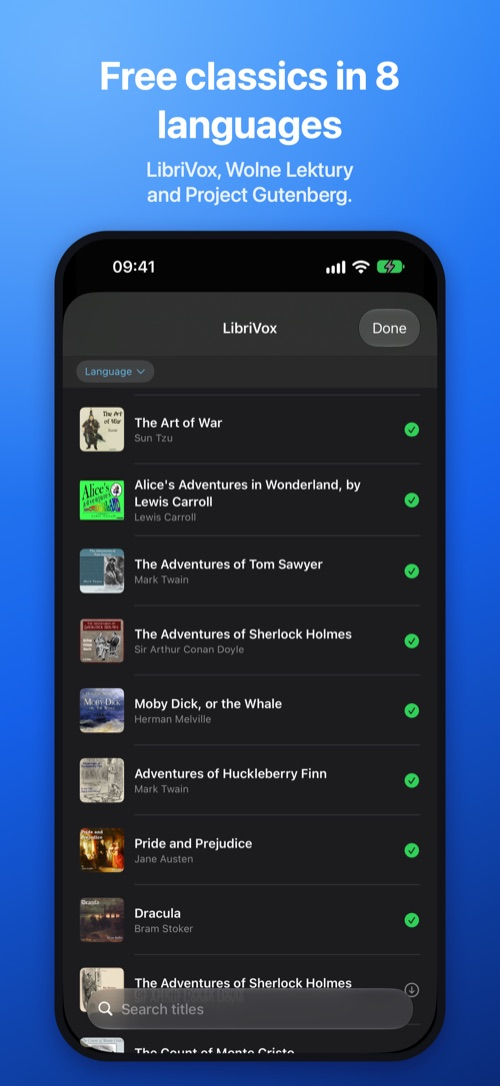
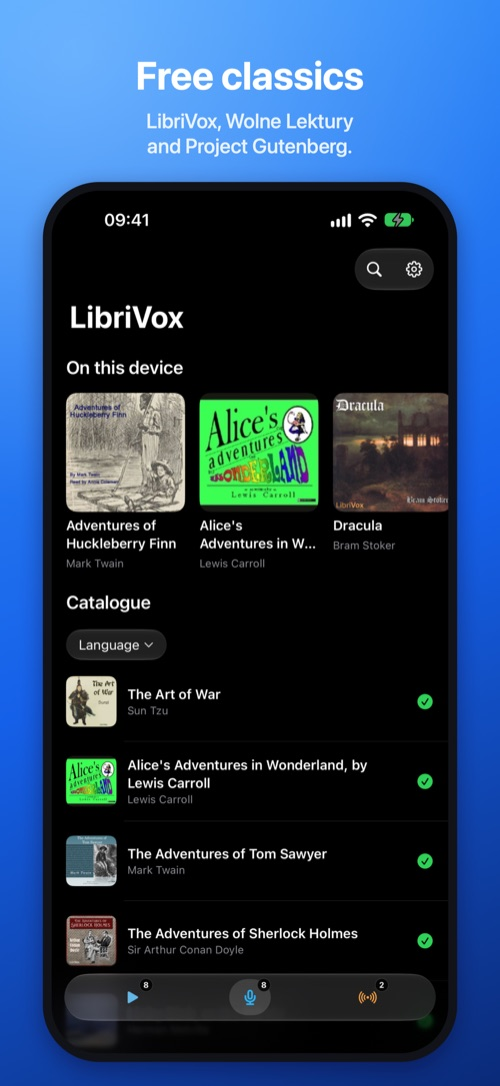
Website: version 3.0 — podcasts, sources as tabs, new screenshots, updated privacy and support

diff --git a/pl/index.html b/pl/index.html
@@ -4,12 +4,12 @@
 <meta charset="utf-8">
 <meta name="viewport" content="width=device-width,initial-scale=1">
 <title>Local Audio Books — Twoje audiobooki i darmowa klasyka w 8 językach</title>
-<meta name="description" content="Prywatny odtwarzacz audiobooków dla Twoich plików MP3 z darmowymi audiobookami z domeny publicznej z LibriVox, Wolnych Lektur i Projektu Gutenberg w ośmiu językach — oraz z dowolnych podcastów i kanałów RSS.">
+<meta name="description" content="Prywatny odtwarzacz Twoich audiobooków, darmowej klasyki z domeny publicznej z Wolnych Lektur, LibriVox i Projektu Gutenberg w ośmiu językach oraz podcastów, które grają od razu.">
 <link rel="canonical" href="https://localaudiobooks.vercel.app/pl">
 <link rel="alternate" hreflang="en" href="https://localaudiobooks.vercel.app/">
 <link rel="alternate" hreflang="pl" href="https://localaudiobooks.vercel.app/pl">
 <meta property="og:title" content="Local Audio Books — Twoje audiobooki i darmowa klasyka w 8 językach">
-<meta property="og:description" content="Prywatny odtwarzacz audiobooków dla Twoich plików MP3 z darmowymi audiobookami z domeny publicznej z LibriVox, Wolnych Lektur i Projektu Gutenberg w ośmiu językach — oraz z dowolnych podcastów i kanałów RSS.">
+<meta property="og:description" content="Prywatny odtwarzacz Twoich audiobooków, darmowej klasyki z domeny publicznej z Wolnych Lektur, LibriVox i Projektu Gutenberg w ośmiu językach oraz podcastów, które grają od razu.">
 <meta property="og:image" content="https://localaudiobooks.vercel.app/assets/og.png">
 <meta name="twitter:card" content="summary_large_image">
 <meta name="apple-itunes-app" content="app-id=6737989765">
@@ -20,23 +20,23 @@
 <body>
 <header class="top"><div class="wrap">
 <a class="brand" href="/pl"><img src="/assets/icon-64.png" alt=""><span>Local Audio Books</span></a>
-<nav><a class="hide-sm" href="/pl#sources">Źródła</a><a class="hide-sm" href="/pl#feeds">Kanały</a><a href="/pl/privacy">Prywatność</a><a href="/pl/support">Pomoc</a><a class="lang" href="/" hreflang="en">EN</a></nav>
+<nav><a class="hide-sm" href="/pl#sources">Źródła</a><a class="hide-sm" href="/pl#feeds">Podcasty</a><a href="/pl/privacy">Prywatność</a><a href="/pl/support">Pomoc</a><a class="lang" href="/" hreflang="en">EN</a></nav>
 </div></header>
 <main>
 <div class="hero"><div class="wrap">
-<div><div class="kicker">Odtwarzacz audiobooków na iPhone’a, iPada i iPhone’a Duo</div><h1>Twoje audiobooki.<br>Darmowa klasyka w ośmiu językach.</h1><p class="lead">Słuchaj audiobooków MP3, które już masz — albo pobieraj tysiące darmowych, legalnych tytułów z Wolnych Lektur, LibriVox i Projektu Gutenberg. Bez konta, reklam i śledzenia.</p>
-<a class="cta" href="https://apps.apple.com/app/id6737989765"><svg viewBox="0 0 24 24" aria-hidden="true"><path fill="currentColor" d="M16.4 12.6c0-2.6 2.1-3.8 2.2-3.9-1.2-1.8-3.1-2-3.7-2-1.6-.2-3.1.9-3.9.9-.8 0-2-.9-3.4-.9-1.7 0-3.3 1-4.2 2.6-1.8 3.1-.5 7.7 1.3 10.2.9 1.2 1.9 2.6 3.2 2.6 1.3-.1 1.8-.8 3.3-.8s2 .8 3.4.8c1.4 0 2.3-1.3 3.1-2.5 1-1.4 1.4-2.8 1.4-2.9-.1 0-2.7-1-2.7-4.1zM13.9 4.9c.7-.9 1.2-2 1.1-3.2-1 0-2.3.7-3 1.6-.7.8-1.2 2-1.1 3.1 1.1.1 2.3-.6 3-1.5z"/></svg>Pobierz z App Store</a><span class="cta-small">Za darmo · iOS 17 lub nowszy</span></div>
-<img class="hero-shot" src="/assets/shots/pl-iphone-player.jpg" alt="Odtwarzacz">
+<div><div class="kicker">Odtwarzacz audiobooków na iPhone’a, iPada i iPhone’a Duo</div><h1>Twoje audiobooki.<br>Darmowa klasyka. Podcasty.</h1><p class="lead">Słuchaj audiobooków, które już masz, tysięcy darmowych, legalnych lektur w ośmiu językach i podcastów, które po prostu grają. Każde źródło to osobna karta, a jedna wyszukiwarka znajdzie wszystko. Bez konta, reklam i śledzenia.</p>
+<a class="cta" href="https://apps.apple.com/app/id6737989765"><svg viewBox="0 0 24 24" aria-hidden="true"><path fill="currentColor" d="M16.4 12.6c0-2.6 2.1-3.8 2.2-3.9-1.2-1.8-3.1-2-3.7-2-1.6-.2-3.1.9-3.9.9-.8 0-2-.9-3.4-.9-1.7 0-3.3 1-4.2 2.6-1.8 3.1-.5 7.7 1.3 10.2.9 1.2 1.9 2.6 3.2 2.6 1.3-.1 1.8-.8 3.3-.8s2 .8 3.4.8c1.4 0 2.3-1.3 3.1-2.5 1-1.4 1.4-2.8 1.4-2.9-.1 0-2.7-1-2.7-4.1zM13.9 4.9c.7-.9 1.2-2 1.1-3.2-1 0-2.3.7-3 1.6-.7.8-1.2 2-1.1 3.1 1.1.1 2.3-.6 3-1.5z"/></svg>Pobierz z App Store</a><span class="cta-small">Za darmo · iOS 26 lub nowszy</span></div>
+<img class="hero-shot" src="/assets/shots/pl-iphone-listen.jpg" alt="Słuchaj">
 </div></div>
-<section id="sources"><div class="wrap"><h2>Darmowe katalogi w Twoim języku</h2><p class="sub">Dodaj katalog, przeglądaj, pobierz tytuł. Staje się zwykłym audiobookiem na urządzeniu — offline, z zapisanym autorem, lektorem, źródłem i licencją.</p><div class="grid"><div class="card"><div class="l">English</div><h3>LibriVox</h3><p>Książki z domeny publicznej czytane przez wolontariuszy</p><div class="n">19 000+ <small>tytułów</small></div></div><div class="card"><div class="l">Polski</div><h3>Wolne Lektury</h3><p>Polska klasyka czytana przez aktorów · CC BY-SA</p><div class="n">1 500+ <small>tytułów</small></div></div><div class="card"><div class="l">Deutsch</div><h3>LibriVox Deutsch</h3><p>Grimm, Kafka, Hoffmann, Karl May…</p><div class="n">850 <small>tytułów</small></div></div><div class="card"><div class="l">Español</div><h3>LibriVox Español</h3><p>Cervantes, Alarcón, Ezop…</p><div class="n">560 <small>tytułów</small></div></div><div class="card"><div class="l">Français</div><h3>LibriVox Français</h3><p>Verne, Dumas, Hugo, Perrault…</p><div class="n">310 <small>tytułów</small></div></div><div class="card"><div class="l">Nederlands</div><h3>LibriVox Nederlands</h3><p>Couperus, Grimm, Verne…</p><div class="n">210 <small>tytułów</small></div></div><div class="card"><div class="l">Português</div><h3>LibriVox Português</h3><p>Machado de Assis, Camões…</p><div class="n">100+ <small>tytułów</small></div></div><div class="card"><div class="l">Italiano</div><h3>LibriVox Italiano</h3><p>Collodi, Dante, Pirandello, Verga…</p><div class="n">90 <small>tytułów</small></div></div></div></div></section>
-<section id="gallery"><div class="wrap"><h2>Zajrzyj do środka</h2><div class="gallery"><img class="" src="/assets/shots/pl-iphone-player.jpg" alt="Odtwarzacz" loading="lazy"><img class="" src="/assets/shots/pl-iphone-home.jpg" alt="Biblioteka" loading="lazy"><img class="" src="/assets/shots/pl-iphone-browse.jpg" alt="Katalog" loading="lazy"><img class="" src="/assets/shots/pl-iphone-sources.jpg" alt="Dodawanie źródła" loading="lazy"><img class="" src="/assets/shots/pl-iphone-detail.jpg" alt="Szczegóły tytułu" loading="lazy"></div></div></section>
-<section id="feeds"><div class="wrap split"><div><h2>Twoje własne kanały</h2><p class="sub">Wklej adres dowolnego podcastu lub kanału RSS — albo strony, która do niego linkuje, np. strony książki w LibriVox. Każdy kanał to audiobook, a jego odcinki to rozdziały, we właściwej kolejności.</p></div>
+<section id="sources"><div class="wrap"><h2>Darmowe katalogi w Twoim języku</h2><p class="sub">Katalogi w Twoim języku są włączone od początku. Stuknij „Słuchaj teraz”, a książka zagra od razu i pobierze się w tle — potem masz ją offline, z zapisanym autorem, lektorem, źródłem i licencją.</p><div class="grid"><div class="card"><div class="l">English</div><h3>LibriVox</h3><p>Książki z domeny publicznej czytane przez wolontariuszy</p><div class="n">19 000+ <small>tytułów</small></div></div><div class="card"><div class="l">Polski</div><h3>Wolne Lektury</h3><p>Polska klasyka czytana przez aktorów · CC BY-SA</p><div class="n">1 500+ <small>tytułów</small></div></div><div class="card"><div class="l">Deutsch</div><h3>LibriVox Deutsch</h3><p>Grimm, Kafka, Hoffmann, Karl May…</p><div class="n">850 <small>tytułów</small></div></div><div class="card"><div class="l">Español</div><h3>LibriVox Español</h3><p>Cervantes, Alarcón, Ezop…</p><div class="n">560 <small>tytułów</small></div></div><div class="card"><div class="l">Français</div><h3>LibriVox Français</h3><p>Verne, Dumas, Hugo, Perrault…</p><div class="n">310 <small>tytułów</small></div></div><div class="card"><div class="l">Nederlands</div><h3>LibriVox Nederlands</h3><p>Couperus, Grimm, Verne…</p><div class="n">210 <small>tytułów</small></div></div><div class="card"><div class="l">Português</div><h3>LibriVox Português</h3><p>Machado de Assis, Camões…</p><div class="n">100+ <small>tytułów</small></div></div><div class="card"><div class="l">Italiano</div><h3>LibriVox Italiano</h3><p>Collodi, Dante, Pirandello, Verga…</p><div class="n">90 <small>tytułów</small></div></div></div></div></section>
+<section id="gallery"><div class="wrap"><h2>Zajrzyj do środka</h2><div class="gallery"><img class="" src="/assets/shots/pl-iphone-listen.jpg" alt="Słuchaj" loading="lazy"><img class="" src="/assets/shots/pl-iphone-player.jpg" alt="Odtwarzacz" loading="lazy"><img class="" src="/assets/shots/pl-iphone-browse.jpg" alt="Katalog" loading="lazy"><img class="" src="/assets/shots/pl-iphone-podcasts.jpg" alt="Podcasty" loading="lazy"><img class="" src="/assets/shots/pl-iphone-detail.jpg" alt="Szczegóły tytułu" loading="lazy"></div></div></section>
+<section id="feeds"><div class="wrap split"><div><h2>Podcasty i słuchowiska</h2><p class="sub">Obserwuj audycje z poleceń, rankingów w Twoim kraju albo wyszukiwarki podcastów — lub wklej dowolny adres kanału. Odcinki grają od razu, od najnowszego, każdy pamięta swoje miejsce; pobierasz tylko to, co chcesz mieć offline.</p></div>
 <div><h2>Twój folder to Twoja biblioteka</h2><p class="sub">Wskaż folder z audiobookami na urządzeniu lub w iCloud Drive — jeden podfolder plików MP3 lub AAC na książkę. Zarządzasz wszystkim w Plikach lub Finderze; foldery iCloud udostępnisz rodzinie.</p></div></div></section>
-<section id="screens"><div class="wrap"><h2>Na każdy ekran</h2><p class="sub">Na iPadzie biblioteka zamienia się w siatkę okładek. Na iPhonie Duo aplikacja mieści się na wąskim ekranie zewnętrznym jako odtwarzacz na jedną rękę, a na szerokim ekranie wewnętrznym przechodzi w siatkę okładek.</p>
-<div class="screens"><figure><img class="" src="/assets/shots/pl-ipad-home.jpg" alt="Biblioteka" loading="lazy"><figcaption>iPad</figcaption></figure>
+<section id="screens"><div class="wrap"><h2>Na każdy ekran</h2><p class="sub">Projekt w stylu Liquid Glass dla iOS 26. Na iPhonie źródła są na pasku ikon na dole, który chowa się przy przewijaniu; na iPadzie i rozłożonym iPhonie Duo przechodzą na pasek przy prawej krawędzi, pod kciukiem.</p>
+<div class="screens"><figure><img class="" src="/assets/shots/pl-ipad-listen.jpg" alt="Słuchaj" loading="lazy"><figcaption>iPad</figcaption></figure>
 <figure><img class="" src="/assets/shots/pl-duo-player.jpg" alt="Odtwarzacz" loading="lazy"><figcaption>iPhone Duo, złożony</figcaption></figure></div></div></section>
-<section><div class="wrap split"><div><h2>Stworzony do długiego słuchania</h2><ul class="ticks"><li>Wznawianie dokładnie tam, gdzie skończyłeś</li><li>Przewijanie o 30 s i zmiana prędkości</li><li>Lista rozdziałów i postęp całej książki</li><li>Zakładki, ulubione i ukończone</li><li>Ekran blokady, słuchawki i CarPlay</li><li>Odtwarzanie w tle</li></ul></div>
-<div><h2>Prywatność od podstaw</h2><p class="sub">Aplikacja nie zbiera żadnych danych. Sieć służy tylko do przeglądania katalogów, pobierania tytułów i okładek.</p><a class="cta" href="https://apps.apple.com/app/id6737989765"><svg viewBox="0 0 24 24" aria-hidden="true"><path fill="currentColor" d="M16.4 12.6c0-2.6 2.1-3.8 2.2-3.9-1.2-1.8-3.1-2-3.7-2-1.6-.2-3.1.9-3.9.9-.8 0-2-.9-3.4-.9-1.7 0-3.3 1-4.2 2.6-1.8 3.1-.5 7.7 1.3 10.2.9 1.2 1.9 2.6 3.2 2.6 1.3-.1 1.8-.8 3.3-.8s2 .8 3.4.8c1.4 0 2.3-1.3 3.1-2.5 1-1.4 1.4-2.8 1.4-2.9-.1 0-2.7-1-2.7-4.1zM13.9 4.9c.7-.9 1.2-2 1.1-3.2-1 0-2.3.7-3 1.6-.7.8-1.2 2-1.1 3.1 1.1.1 2.3-.6 3-1.5z"/></svg>Pobierz z App Store</a></div></div></section>
+<section><div class="wrap split"><div><h2>Stworzony do długiego słuchania</h2><ul class="ticks"><li>Wznawianie dokładnie tam, gdzie skończyło się słuchanie</li><li>Wyłącznik czasowy — minuty albo koniec rozdziału</li><li>Prędkość 0,8–2,5×, zapamiętywana dla książki</li><li>Wybrane przeskoki, rozdziały, zakładki</li><li>Ekran blokady, słuchawki i CarPlay</li><li>Odtwarzanie w tle</li></ul></div>
+<div><h2>Prywatność od podstaw</h2><p class="sub">Aplikacja nie zbiera żadnych danych. Sieć służy tylko do katalogów, podcastów, pobierania i okładek.</p><a class="cta" href="https://apps.apple.com/app/id6737989765"><svg viewBox="0 0 24 24" aria-hidden="true"><path fill="currentColor" d="M16.4 12.6c0-2.6 2.1-3.8 2.2-3.9-1.2-1.8-3.1-2-3.7-2-1.6-.2-3.1.9-3.9.9-.8 0-2-.9-3.4-.9-1.7 0-3.3 1-4.2 2.6-1.8 3.1-.5 7.7 1.3 10.2.9 1.2 1.9 2.6 3.2 2.6 1.3-.1 1.8-.8 3.3-.8s2 .8 3.4.8c1.4 0 2.3-1.3 3.1-2.5 1-1.4 1.4-2.8 1.4-2.9-.1 0-2.7-1-2.7-4.1zM13.9 4.9c.7-.9 1.2-2 1.1-3.2-1 0-2.3.7-3 1.6-.7.8-1.2 2-1.1 3.1 1.1.1 2.3-.6 3-1.5z"/></svg>Pobierz z App Store</a></div></div></section>
 </main>
 <footer><div class="wrap"><span>© 2026 Local Audio Books · Zrobione w Polsce. Nagrania LibriVox są w domenie publicznej w USA; tytuły Wolnych Lektur na licencji CC BY-SA.</span><span><a href="/pl/privacy">Prywatność</a> · <a href="/pl/support">Pomoc</a></span></div></footer>
 </body>

diff --git a/index.html b/index.html
@@ -4,12 +4,12 @@
 <meta charset="utf-8">
 <meta name="viewport" content="width=device-width,initial-scale=1">
 <title>Local Audio Books — your audiobooks and free classics in 8 languages</title>
-<meta name="description" content="A private audiobook player for your own MP3 files, with free public-domain audiobooks from LibriVox, Wolne Lektury and Project Gutenberg in eight languages — plus any podcast or RSS feed.">
+<meta name="description" content="A private player for your own audiobooks, free public-domain classics from LibriVox, Wolne Lektury and Project Gutenberg in eight languages, and podcasts that stream right away.">
 <link rel="canonical" href="https://localaudiobooks.vercel.app/">
 <link rel="alternate" hreflang="en" href="https://localaudiobooks.vercel.app/">
 <link rel="alternate" hreflang="pl" href="https://localaudiobooks.vercel.app/pl/">
 <meta property="og:title" content="Local Audio Books — your audiobooks and free classics in 8 languages">
-<meta property="og:description" content="A private audiobook player for your own MP3 files, with free public-domain audiobooks from LibriVox, Wolne Lektury and Project Gutenberg in eight languages — plus any podcast or RSS feed.">
+<meta property="og:description" content="A private player for your own audiobooks, free public-domain classics from LibriVox, Wolne Lektury and Project Gutenberg in eight languages, and podcasts that stream right away.">
 <meta property="og:image" content="https://localaudiobooks.vercel.app/assets/og.png">
 <meta name="twitter:card" content="summary_large_image">
 <meta name="apple-itunes-app" content="app-id=6737989765">
@@ -20,23 +20,23 @@
 <body>
 <header class="top"><div class="wrap">
 <a class="brand" href="/"><img src="/assets/icon-64.png" alt=""><span>Local Audio Books</span></a>
-<nav><a class="hide-sm" href="/#sources">Sources</a><a class="hide-sm" href="/#feeds">Feeds</a><a href="/privacy">Privacy</a><a href="/support">Support</a><a class="lang" href="/pl" hreflang="pl">PL</a></nav>
+<nav><a class="hide-sm" href="/#sources">Sources</a><a class="hide-sm" href="/#feeds">Podcasts</a><a href="/privacy">Privacy</a><a href="/support">Support</a><a class="lang" href="/pl" hreflang="pl">PL</a></nav>
 </div></header>
 <main>
 <div class="hero"><div class="wrap">
-<div><div class="kicker">Audiobook player for iPhone, iPad and iPhone Duo</div><h1>Your audiobooks.<br>Free classics in eight languages.</h1><p class="lead">Play the MP3 audiobooks you already own — or download thousands of free, legal titles from LibriVox, Wolne Lektury and Project Gutenberg. No account, no ads, no tracking.</p>
-<a class="cta" href="https://apps.apple.com/app/id6737989765"><svg viewBox="0 0 24 24" aria-hidden="true"><path fill="currentColor" d="M16.4 12.6c0-2.6 2.1-3.8 2.2-3.9-1.2-1.8-3.1-2-3.7-2-1.6-.2-3.1.9-3.9.9-.8 0-2-.9-3.4-.9-1.7 0-3.3 1-4.2 2.6-1.8 3.1-.5 7.7 1.3 10.2.9 1.2 1.9 2.6 3.2 2.6 1.3-.1 1.8-.8 3.3-.8s2 .8 3.4.8c1.4 0 2.3-1.3 3.1-2.5 1-1.4 1.4-2.8 1.4-2.9-.1 0-2.7-1-2.7-4.1zM13.9 4.9c.7-.9 1.2-2 1.1-3.2-1 0-2.3.7-3 1.6-.7.8-1.2 2-1.1 3.1 1.1.1 2.3-.6 3-1.5z"/></svg>Download on the App Store</a><span class="cta-small">Free · iOS 17 or later</span></div>
-<img class="hero-shot" src="/assets/shots/en-iphone-player.jpg" alt="Player">
+<div><div class="kicker">Audiobook player for iPhone, iPad and iPhone Duo</div><h1>Your audiobooks.<br>Free classics. Podcasts.</h1><p class="lead">Play the audiobooks you already own, thousands of free, legal classics in eight languages, and podcasts that just play. Every source is a tab; one search finds everything. No account, no ads, no tracking.</p>
+<a class="cta" href="https://apps.apple.com/app/id6737989765"><svg viewBox="0 0 24 24" aria-hidden="true"><path fill="currentColor" d="M16.4 12.6c0-2.6 2.1-3.8 2.2-3.9-1.2-1.8-3.1-2-3.7-2-1.6-.2-3.1.9-3.9.9-.8 0-2-.9-3.4-.9-1.7 0-3.3 1-4.2 2.6-1.8 3.1-.5 7.7 1.3 10.2.9 1.2 1.9 2.6 3.2 2.6 1.3-.1 1.8-.8 3.3-.8s2 .8 3.4.8c1.4 0 2.3-1.3 3.1-2.5 1-1.4 1.4-2.8 1.4-2.9-.1 0-2.7-1-2.7-4.1zM13.9 4.9c.7-.9 1.2-2 1.1-3.2-1 0-2.3.7-3 1.6-.7.8-1.2 2-1.1 3.1 1.1.1 2.3-.6 3-1.5z"/></svg>Download on the App Store</a><span class="cta-small">Free · iOS 26 or later</span></div>
+<img class="hero-shot" src="/assets/shots/en-iphone-listen.jpg" alt="Listen">
 </div></div>
-<section id="sources"><div class="wrap"><h2>Free catalogues, in your language</h2><p class="sub">Add a catalogue, browse it, download a title. It becomes an ordinary audiobook on your device — offline, with author, narrator, source and license recorded.</p><div class="grid"><div class="card"><div class="l">English</div><h3>LibriVox</h3><p>Volunteer readings of public-domain books</p><div class="n">19 000+ <small>titles</small></div></div><div class="card"><div class="l">Polski</div><h3>Wolne Lektury</h3><p>Polish classics read by actors · CC BY-SA</p><div class="n">1 500+ <small>titles</small></div></div><div class="card"><div class="l">Deutsch</div><h3>LibriVox Deutsch</h3><p>Grimm, Kafka, Hoffmann, Karl May…</p><div class="n">850 <small>titles</small></div></div><div class="card"><div class="l">Español</div><h3>LibriVox Español</h3><p>Cervantes, Alarcón, Aesop…</p><div class="n">560 <small>titles</small></div></div><div class="card"><div class="l">Français</div><h3>LibriVox Français</h3><p>Verne, Dumas, Hugo, Perrault…</p><div class="n">310 <small>titles</small></div></div><div class="card"><div class="l">Nederlands</div><h3>LibriVox Nederlands</h3><p>Couperus, Grimm, Verne…</p><div class="n">210 <small>titles</small></div></div><div class="card"><div class="l">Português</div><h3>LibriVox Português</h3><p>Machado de Assis, Camões…</p><div class="n">100+ <small>titles</small></div></div><div class="card"><div class="l">Italiano</div><h3>LibriVox Italiano</h3><p>Collodi, Dante, Pirandello, Verga…</p><div class="n">90 <small>titles</small></div></div></div></div></section>
-<section id="gallery"><div class="wrap"><h2>A look inside</h2><div class="gallery"><img class="" src="/assets/shots/en-iphone-player.jpg" alt="Player" loading="lazy"><img class="" src="/assets/shots/en-iphone-home.jpg" alt="Library" loading="lazy"><img class="" src="/assets/shots/en-iphone-browse.jpg" alt="Catalogue" loading="lazy"><img class="" src="/assets/shots/en-iphone-sources.jpg" alt="Add a source" loading="lazy"><img class="" src="/assets/shots/en-iphone-detail.jpg" alt="Title details" loading="lazy"></div></div></section>
-<section id="feeds"><div class="wrap split"><div><h2>Bring your own feeds</h2><p class="sub">Paste the address of any podcast or RSS feed — or of a web page that links to one, like a LibriVox book page. Each feed becomes an audiobook and its episodes the chapters, in listening order.</p></div>
+<section id="sources"><div class="wrap"><h2>Free catalogues, in your language</h2><p class="sub">Catalogues in your language are on from the start. Tap Listen now and a book plays at once while it downloads in the background — then it is yours offline, with author, narrator, source and license recorded.</p><div class="grid"><div class="card"><div class="l">English</div><h3>LibriVox</h3><p>Volunteer readings of public-domain books</p><div class="n">19 000+ <small>titles</small></div></div><div class="card"><div class="l">Polski</div><h3>Wolne Lektury</h3><p>Polish classics read by actors · CC BY-SA</p><div class="n">1 500+ <small>titles</small></div></div><div class="card"><div class="l">Deutsch</div><h3>LibriVox Deutsch</h3><p>Grimm, Kafka, Hoffmann, Karl May…</p><div class="n">850 <small>titles</small></div></div><div class="card"><div class="l">Español</div><h3>LibriVox Español</h3><p>Cervantes, Alarcón, Aesop…</p><div class="n">560 <small>titles</small></div></div><div class="card"><div class="l">Français</div><h3>LibriVox Français</h3><p>Verne, Dumas, Hugo, Perrault…</p><div class="n">310 <small>titles</small></div></div><div class="card"><div class="l">Nederlands</div><h3>LibriVox Nederlands</h3><p>Couperus, Grimm, Verne…</p><div class="n">210 <small>titles</small></div></div><div class="card"><div class="l">Português</div><h3>LibriVox Português</h3><p>Machado de Assis, Camões…</p><div class="n">100+ <small>titles</small></div></div><div class="card"><div class="l">Italiano</div><h3>LibriVox Italiano</h3><p>Collodi, Dante, Pirandello, Verga…</p><div class="n">90 <small>titles</small></div></div></div></div></section>
+<section id="gallery"><div class="wrap"><h2>A look inside</h2><div class="gallery"><img class="" src="/assets/shots/en-iphone-listen.jpg" alt="Listen" loading="lazy"><img class="" src="/assets/shots/en-iphone-player.jpg" alt="Player" loading="lazy"><img class="" src="/assets/shots/en-iphone-browse.jpg" alt="Catalogue" loading="lazy"><img class="" src="/assets/shots/en-iphone-podcasts.jpg" alt="Podcasts" loading="lazy"><img class="" src="/assets/shots/en-iphone-detail.jpg" alt="Title details" loading="lazy"></div></div></section>
+<section id="feeds"><div class="wrap split"><div><h2>Podcasts and radio drama</h2><p class="sub">Follow shows from recommendations, your country’s top charts or a search of the podcast directory — or paste any feed address. Episodes stream straight away, newest first, each with its own position; download only what you want offline.</p></div>
 <div><h2>Your folder is your library</h2><p class="sub">Point the app at a folder of audiobooks on your device or in iCloud Drive — one subfolder of MP3 or AAC files per book. Manage everything in Files or Finder; share iCloud folders with family.</p></div></div></section>
-<section id="screens"><div class="wrap"><h2>Made for every screen</h2><p class="sub">On iPad your library becomes a grid of covers. On iPhone Duo the app fits the compact outer screen as a one-hand player and switches to the cover grid on the wide inner screen.</p>
-<div class="screens"><figure><img class="" src="/assets/shots/en-ipad-home.jpg" alt="Library" loading="lazy"><figcaption>iPad</figcaption></figure>
+<section id="screens"><div class="wrap"><h2>Made for every screen</h2><p class="sub">A Liquid Glass design for iOS 26. On iPhone the sources sit in a bar of icons at the bottom that tucks away as you scroll; on iPad and the unfolded iPhone Duo they move to a rail on the right edge, right by your thumb.</p>
+<div class="screens"><figure><img class="" src="/assets/shots/en-ipad-listen.jpg" alt="Listen" loading="lazy"><figcaption>iPad</figcaption></figure>
 <figure><img class="" src="/assets/shots/en-duo-player.jpg" alt="Player" loading="lazy"><figcaption>iPhone Duo, folded</figcaption></figure></div></div></section>
-<section><div class="wrap split"><div><h2>Built for long listens</h2><ul class="ticks"><li>Resume exactly where you stopped</li><li>30-second skips and variable speed</li><li>Chapter list and whole-book progress</li><li>Bookmarks, favourites and finished flags</li><li>Lock screen, headphones and CarPlay</li><li>Background playback</li></ul></div>
-<div><h2>Private by design</h2><p class="sub">The app collects no data. The network is used only to browse catalogues, download titles and fetch cover art.</p><a class="cta" href="https://apps.apple.com/app/id6737989765"><svg viewBox="0 0 24 24" aria-hidden="true"><path fill="currentColor" d="M16.4 12.6c0-2.6 2.1-3.8 2.2-3.9-1.2-1.8-3.1-2-3.7-2-1.6-.2-3.1.9-3.9.9-.8 0-2-.9-3.4-.9-1.7 0-3.3 1-4.2 2.6-1.8 3.1-.5 7.7 1.3 10.2.9 1.2 1.9 2.6 3.2 2.6 1.3-.1 1.8-.8 3.3-.8s2 .8 3.4.8c1.4 0 2.3-1.3 3.1-2.5 1-1.4 1.4-2.8 1.4-2.9-.1 0-2.7-1-2.7-4.1zM13.9 4.9c.7-.9 1.2-2 1.1-3.2-1 0-2.3.7-3 1.6-.7.8-1.2 2-1.1 3.1 1.1.1 2.3-.6 3-1.5z"/></svg>Download on the App Store</a></div></div></section>
+<section><div class="wrap split"><div><h2>Built for long listens</h2><ul class="ticks"><li>Resume exactly where you stopped</li><li>Sleep timer — minutes or end of chapter</li><li>Speed 0.8–2.5×, remembered per book</li><li>Skip intervals you choose, chapters, bookmarks</li><li>Lock screen, headphones and CarPlay</li><li>Background playback</li></ul></div>
+<div><h2>Private by design</h2><p class="sub">The app collects no data. The network is used only for catalogues, podcasts, downloads and cover art.</p><a class="cta" href="https://apps.apple.com/app/id6737989765"><svg viewBox="0 0 24 24" aria-hidden="true"><path fill="currentColor" d="M16.4 12.6c0-2.6 2.1-3.8 2.2-3.9-1.2-1.8-3.1-2-3.7-2-1.6-.2-3.1.9-3.9.9-.8 0-2-.9-3.4-.9-1.7 0-3.3 1-4.2 2.6-1.8 3.1-.5 7.7 1.3 10.2.9 1.2 1.9 2.6 3.2 2.6 1.3-.1 1.8-.8 3.3-.8s2 .8 3.4.8c1.4 0 2.3-1.3 3.1-2.5 1-1.4 1.4-2.8 1.4-2.9-.1 0-2.7-1-2.7-4.1zM13.9 4.9c.7-.9 1.2-2 1.1-3.2-1 0-2.3.7-3 1.6-.7.8-1.2 2-1.1 3.1 1.1.1 2.3-.6 3-1.5z"/></svg>Download on the App Store</a></div></div></section>
 </main>
 <footer><div class="wrap"><span>© 2026 Local Audio Books · Made in Poland. LibriVox recordings are in the public domain in the USA; Wolne Lektury titles are CC BY-SA.</span><span><a href="/privacy">Privacy</a> · <a href="/support">Support</a></span></div></footer>
 </body>

diff --git a/pl/privacy.html b/pl/privacy.html
@@ -4,12 +4,12 @@
 <meta charset="utf-8">
 <meta name="viewport" content="width=device-width,initial-scale=1">
 <title>Polityka prywatności — Local Audio Books</title>
-<meta name="description" content="Prywatny odtwarzacz audiobooków dla Twoich plików MP3 z darmowymi audiobookami z domeny publicznej z LibriVox, Wolnych Lektur i Projektu Gutenberg w ośmiu językach — oraz z dowolnych podcastów i kanałów RSS.">
+<meta name="description" content="Prywatny odtwarzacz Twoich audiobooków, darmowej klasyki z domeny publicznej z Wolnych Lektur, LibriVox i Projektu Gutenberg w ośmiu językach oraz podcastów, które grają od razu.">
 <link rel="canonical" href="https://localaudiobooks.vercel.app/pl/privacy">
 <link rel="alternate" hreflang="en" href="https://localaudiobooks.vercel.app/privacy">
 <link rel="alternate" hreflang="pl" href="https://localaudiobooks.vercel.app/pl/privacy">
 <meta property="og:title" content="Polityka prywatności — Local Audio Books">
-<meta property="og:description" content="Prywatny odtwarzacz audiobooków dla Twoich plików MP3 z darmowymi audiobookami z domeny publicznej z LibriVox, Wolnych Lektur i Projektu Gutenberg w ośmiu językach — oraz z dowolnych podcastów i kanałów RSS.">
+<meta property="og:description" content="Prywatny odtwarzacz Twoich audiobooków, darmowej klasyki z domeny publicznej z Wolnych Lektur, LibriVox i Projektu Gutenberg w ośmiu językach oraz podcastów, które grają od razu.">
 <meta property="og:image" content="https://localaudiobooks.vercel.app/assets/og.png">
 <meta name="twitter:card" content="summary_large_image">
 <meta name="apple-itunes-app" content="app-id=6737989765">
@@ -20,9 +20,9 @@
 <body>
 <header class="top"><div class="wrap">
 <a class="brand" href="/pl"><img src="/assets/icon-64.png" alt=""><span>Local Audio Books</span></a>
-<nav><a class="hide-sm" href="/pl#sources">Źródła</a><a class="hide-sm" href="/pl#feeds">Kanały</a><a href="/pl/privacy">Prywatność</a><a href="/pl/support">Pomoc</a><a class="lang" href="/" hreflang="en">EN</a></nav>
+<nav><a class="hide-sm" href="/pl#sources">Źródła</a><a class="hide-sm" href="/pl#feeds">Podcasty</a><a href="/pl/privacy">Prywatność</a><a href="/pl/support">Pomoc</a><a class="lang" href="/" hreflang="en">EN</a></nav>
 </div></header>
-<main class="doc"><h1>Polityka prywatności</h1><p style="color:var(--muted)">Ostatnia zmiana: 31 października 2026</p><h2>Nie zbieramy danych</h2><p>Local Audio Books nie zbiera, nie przechowuje i nie udostępnia danych osobowych. Nie ma konta, analityki, reklam ani śledzenia. Etykieta prywatności w App Store: „Dane nie są zbierane”.</p><h2>Co zostaje na urządzeniu</h2><p>Biblioteki, miejsca odtwarzania, zakładki, ulubione i dodane kanały są zapisywane wyłącznie na Twoim urządzeniu (oraz w wybranych przez Ciebie folderach iCloud Drive).</p><h2>Połączenia sieciowe</h2><p>Aplikacja łączy się z internetem tylko na Twoje polecenie: by przeglądać i pobierać z Internet Archive (LibriVox, Projekt Gutenberg), Wolnych Lektur i dodanych przez Ciebie kanałów, oraz by pobrać okładkę z Google Books dla książek bez okładki. Te serwisy otrzymują zwykłe dane techniczne każdego zapytania (np. adres IP) na zasadach własnych polityk; aplikacja nie wysyła im niczego, co Cię identyfikuje.</p><h2>Pliki</h2><p>Aplikacja czyta tylko foldery wskazane przez Ciebie w oknie wyboru plików. Nigdy nie wysyła Twoich plików.</p><h2>Dzieci</h2><p>Aplikacja ma kategorię 4+ i nie zbiera świadomie danych od nikogo.</p><h2>Zmiany i kontakt</h2><p>Zmiany tej polityki opublikujemy na tej stronie. Pytania: zgłoś je na <a href="https://github.com/blazejzet/localaudiobooks/issues">GitHubie</a>.</p></main>
+<main class="doc"><h1>Polityka prywatności</h1><p style="color:var(--muted)">Ostatnia zmiana: 1 listopada 2026</p><h2>Nie zbieramy danych</h2><p>Local Audio Books nie zbiera, nie przechowuje i nie udostępnia danych osobowych. Nie ma konta, analityki, reklam ani śledzenia. Etykieta prywatności w App Store: „Dane nie są zbierane”.</p><h2>Co zostaje na urządzeniu</h2><p>Biblioteki, miejsca odtwarzania, zakładki, ulubione i obserwowane podcasty są zapisywane wyłącznie na Twoim urządzeniu (oraz w wybranych przez Ciebie folderach iCloud Drive).</p><h2>Połączenia sieciowe</h2><p>Aplikacja łączy się z internetem, by przeglądać, odtwarzać i pobierać z Internet Archive (LibriVox, Projekt Gutenberg), Wolnych Lektur i obserwowanych podcastów; by przeszukiwać publiczny katalog i rankingi podcastów Apple (wpisane frazy trafiają do Apple); by odświeżać obserwowane podcasty; oraz by pobierać okładki, także z Google Books dla książek bez okładki. Te serwisy otrzymują zwykłe dane techniczne każdego zapytania (np. adres IP) na zasadach własnych polityk; aplikacja nie wysyła im niczego, co Cię identyfikuje.</p><h2>Pliki</h2><p>Aplikacja czyta tylko foldery wskazane przez Ciebie w oknie wyboru plików. Nigdy nie wysyła Twoich plików.</p><h2>Dzieci</h2><p>Aplikacja ma kategorię 4+ i nie zbiera świadomie danych od nikogo.</p><h2>Zmiany i kontakt</h2><p>Zmiany tej polityki opublikujemy na tej stronie. Pytania: zgłoś je na <a href="https://github.com/blazejzet/localaudiobooks/issues">GitHubie</a>.</p></main>
 <footer><div class="wrap"><span>© 2026 Local Audio Books · Zrobione w Polsce. Nagrania LibriVox są w domenie publicznej w USA; tytuły Wolnych Lektur na licencji CC BY-SA.</span><span><a href="/pl/privacy">Prywatność</a> · <a href="/pl/support">Pomoc</a></span></div></footer>
 </body>
 </html>

diff --git a/privacy.html b/privacy.html
@@ -4,12 +4,12 @@
 <meta charset="utf-8">
 <meta name="viewport" content="width=device-width,initial-scale=1">
 <title>Privacy Policy — Local Audio Books</title>
-<meta name="description" content="A private audiobook player for your own MP3 files, with free public-domain audiobooks from LibriVox, Wolne Lektury and Project Gutenberg in eight languages — plus any podcast or RSS feed.">
+<meta name="description" content="A private player for your own audiobooks, free public-domain classics from LibriVox, Wolne Lektury and Project Gutenberg in eight languages, and podcasts that stream right away.">
 <link rel="canonical" href="https://localaudiobooks.vercel.app/privacy">
 <link rel="alternate" hreflang="en" href="https://localaudiobooks.vercel.app/privacy">
 <link rel="alternate" hreflang="pl" href="https://localaudiobooks.vercel.app/pl/privacy">
 <meta property="og:title" content="Privacy Policy — Local Audio Books">
-<meta property="og:description" content="A private audiobook player for your own MP3 files, with free public-domain audiobooks from LibriVox, Wolne Lektury and Project Gutenberg in eight languages — plus any podcast or RSS feed.">
+<meta property="og:description" content="A private player for your own audiobooks, free public-domain classics from LibriVox, Wolne Lektury and Project Gutenberg in eight languages, and podcasts that stream right away.">
 <meta property="og:image" content="https://localaudiobooks.vercel.app/assets/og.png">
 <meta name="twitter:card" content="summary_large_image">
 <meta name="apple-itunes-app" content="app-id=6737989765">
@@ -20,9 +20,9 @@
 <body>
 <header class="top"><div class="wrap">
 <a class="brand" href="/"><img src="/assets/icon-64.png" alt=""><span>Local Audio Books</span></a>
-<nav><a class="hide-sm" href="/#sources">Sources</a><a class="hide-sm" href="/#feeds">Feeds</a><a href="/privacy">Privacy</a><a href="/support">Support</a><a class="lang" href="/pl" hreflang="pl">PL</a></nav>
+<nav><a class="hide-sm" href="/#sources">Sources</a><a class="hide-sm" href="/#feeds">Podcasts</a><a href="/privacy">Privacy</a><a href="/support">Support</a><a class="lang" href="/pl" hreflang="pl">PL</a></nav>
 </div></header>
-<main class="doc"><h1>Privacy Policy</h1><p style="color:var(--muted)">Last updated: 31 October 2026</p><h2>No data collected</h2><p>Local Audio Books does not collect, store or share personal data. There is no account, no analytics, no advertising and no tracking. App Store privacy label: “Data Not Collected”.</p><h2>What stays on your device</h2><p>Your libraries, listening positions, bookmarks, favourites and the feeds you add are stored only on your device (and in iCloud Drive folders you choose yourself).</p><h2>Network requests</h2><p>The app connects to the internet only when you ask it to: to browse and download from Internet Archive (LibriVox, Project Gutenberg), Wolne Lektury and the podcast/RSS feeds you add, and to fetch cover art from Google Books for books without one. These services receive the usual technical data of any web request (such as your IP address) under their own privacy policies; the app sends them nothing that identifies you.</p><h2>Files</h2><p>The app only reads folders you pick in the Files picker. It never uploads your files.</p><h2>Children</h2><p>The app is rated 4+ and does not knowingly collect data from anyone.</p><h2>Changes and contact</h2><p>Changes to this policy will be published on this page. Questions: open an issue at <a href="https://github.com/blazejzet/localaudiobooks/issues">GitHub</a>.</p></main>
+<main class="doc"><h1>Privacy Policy</h1><p style="color:var(--muted)">Last updated: 1 November 2026</p><h2>No data collected</h2><p>Local Audio Books does not collect, store or share personal data. There is no account, no analytics, no advertising and no tracking. App Store privacy label: “Data Not Collected”.</p><h2>What stays on your device</h2><p>Your libraries, listening positions, bookmarks, favourites and the podcasts you follow are stored only on your device (and in iCloud Drive folders you choose yourself).</p><h2>Network requests</h2><p>The app connects to the internet to browse, stream and download from Internet Archive (LibriVox, Project Gutenberg), Wolne Lektury and the podcasts you follow; to search Apple’s public podcast directory and charts (search terms you type are sent to Apple); to refresh followed podcasts; and to fetch cover art, including from Google Books for books without one. These services receive the usual technical data of any web request (such as your IP address) under their own privacy policies; the app sends them nothing that identifies you.</p><h2>Files</h2><p>The app only reads folders you pick in the Files picker. It never uploads your files.</p><h2>Children</h2><p>The app is rated 4+ and does not knowingly collect data from anyone.</p><h2>Changes and contact</h2><p>Changes to this policy will be published on this page. Questions: open an issue at <a href="https://github.com/blazejzet/localaudiobooks/issues">GitHub</a>.</p></main>
 <footer><div class="wrap"><span>© 2026 Local Audio Books · Made in Poland. LibriVox recordings are in the public domain in the USA; Wolne Lektury titles are CC BY-SA.</span><span><a href="/privacy">Privacy</a> · <a href="/support">Support</a></span></div></footer>
 </body>
 </html>

diff --git a/pl/support.html b/pl/support.html
@@ -4,12 +4,12 @@
 <meta charset="utf-8">
 <meta name="viewport" content="width=device-width,initial-scale=1">
 <title>Pomoc — Local Audio Books</title>
-<meta name="description" content="Prywatny odtwarzacz audiobooków dla Twoich plików MP3 z darmowymi audiobookami z domeny publicznej z LibriVox, Wolnych Lektur i Projektu Gutenberg w ośmiu językach — oraz z dowolnych podcastów i kanałów RSS.">
+<meta name="description" content="Prywatny odtwarzacz Twoich audiobooków, darmowej klasyki z domeny publicznej z Wolnych Lektur, LibriVox i Projektu Gutenberg w ośmiu językach oraz podcastów, które grają od razu.">
 <link rel="canonical" href="https://localaudiobooks.vercel.app/pl/support">
 <link rel="alternate" hreflang="en" href="https://localaudiobooks.vercel.app/support">
 <link rel="alternate" hreflang="pl" href="https://localaudiobooks.vercel.app/pl/support">
 <meta property="og:title" content="Pomoc — Local Audio Books">
-<meta property="og:description" content="Prywatny odtwarzacz audiobooków dla Twoich plików MP3 z darmowymi audiobookami z domeny publicznej z LibriVox, Wolnych Lektur i Projektu Gutenberg w ośmiu językach — oraz z dowolnych podcastów i kanałów RSS.">
+<meta property="og:description" content="Prywatny odtwarzacz Twoich audiobooków, darmowej klasyki z domeny publicznej z Wolnych Lektur, LibriVox i Projektu Gutenberg w ośmiu językach oraz podcastów, które grają od razu.">
 <meta property="og:image" content="https://localaudiobooks.vercel.app/assets/og.png">
 <meta name="twitter:card" content="summary_large_image">
 <meta name="apple-itunes-app" content="app-id=6737989765">
@@ -20,9 +20,9 @@
 <body>
 <header class="top"><div class="wrap">
 <a class="brand" href="/pl"><img src="/assets/icon-64.png" alt=""><span>Local Audio Books</span></a>
-<nav><a class="hide-sm" href="/pl#sources">Źródła</a><a class="hide-sm" href="/pl#feeds">Kanały</a><a href="/pl/privacy">Prywatność</a><a href="/pl/support">Pomoc</a><a class="lang" href="/" hreflang="en">EN</a></nav>
+<nav><a class="hide-sm" href="/pl#sources">Źródła</a><a class="hide-sm" href="/pl#feeds">Podcasty</a><a href="/pl/privacy">Prywatność</a><a href="/pl/support">Pomoc</a><a class="lang" href="/" hreflang="en">EN</a></nav>
 </div></header>
-<main class="doc"><h1>Pomoc</h1><h2>Dodawanie darmowego katalogu</h2><p>Otwórz <b>Biblioteki → + → Dodaj źródło zdalne</b>, wybierz katalog (te w Twoim języku są na górze), a potem <b>Przeglądaj tytuły</b>.</p><h2>Dodawanie podcastu lub kanału RSS</h2><p>Dodaj źródło <b>Twoje kanały</b>, otwórz je i stuknij <b>+</b>. Wklej adres kanału albo strony, która do niego linkuje (np. strony książki w LibriVox).</p><h2>Własne pliki</h2><p>Utwórz folder z jednym podfolderem na książkę, a w nim pliki MP3 lub AAC (opcjonalnie <code>cover.jpg</code>, <code>info.txt</code>). Potem <b>+ → Dodaj bibliotekę z folderu</b> i wskaż folder nadrzędny.</p><h2>Pobieranie się nie udało</h2><p>Otwórz tytuł i stuknij <b>Pobierz</b> jeszcze raz — pliki, które już są na urządzeniu, zostaną, a dociągnięte zostaną tylko brakujące.</p><h2>Kontakt</h2><p>Znalazłeś błąd albo masz pomysł? <a href="https://github.com/blazejzet/localaudiobooks/issues">Zgłoś to na GitHubie</a>.</p></main>
+<main class="doc"><h1>Pomoc</h1><h2>Włączanie darmowego katalogu</h2><p>Otwórz <b>Ustawienia</b> (zębatka u góry) i włącz katalog — dostanie własną kartę na pasku na dole. Otwórz tytuł i stuknij <b>Słuchaj teraz</b> albo <b>Pobierz</b>.</p><h2>Obserwowanie podcastu</h2><p>Otwórz kartę <b>Podcasty</b> i stuknij lupę u góry: wpisz nazwę audycji i stuknij <b>+</b> albo wklej adres jej kanału lub strony i wybierz <b>Obserwuj ten adres</b>.</p><h2>Wyszukiwanie</h2><p>Lupa u góry szuka w karcie, na której jesteś — na karcie <b>Słuchaj</b> wszędzie. Wyniki są podzielone na to, co masz na urządzeniu, i to, co możesz jeszcze pobrać.</p><h2>Własne pliki</h2><p>Utwórz folder z jednym podfolderem na książkę, a w nim pliki MP3 lub AAC (opcjonalnie <code>cover.jpg</code>, <code>info.txt</code>). Potem <b>Ustawienia → Dodaj folder</b> i wskaż folder nadrzędny.</p><h2>Pobieranie się nie udało</h2><p>Otwórz tytuł i stuknij <b>Pobierz</b> jeszcze raz — pliki, które już są na urządzeniu, zostaną, a dociągnięte zostaną tylko brakujące.</p><h2>Kontakt</h2><p>Znalazłeś błąd albo masz pomysł? <a href="https://github.com/blazejzet/localaudiobooks/issues">Zgłoś to na GitHubie</a>.</p></main>
 <footer><div class="wrap"><span>© 2026 Local Audio Books · Zrobione w Polsce. Nagrania LibriVox są w domenie publicznej w USA; tytuły Wolnych Lektur na licencji CC BY-SA.</span><span><a href="/pl/privacy">Prywatność</a> · <a href="/pl/support">Pomoc</a></span></div></footer>
 </body>
 </html>

diff --git a/support.html b/support.html
@@ -4,12 +4,12 @@
 <meta charset="utf-8">
 <meta name="viewport" content="width=device-width,initial-scale=1">
 <title>Support — Local Audio Books</title>
-<meta name="description" content="A private audiobook player for your own MP3 files, with free public-domain audiobooks from LibriVox, Wolne Lektury and Project Gutenberg in eight languages — plus any podcast or RSS feed.">
+<meta name="description" content="A private player for your own audiobooks, free public-domain classics from LibriVox, Wolne Lektury and Project Gutenberg in eight languages, and podcasts that stream right away.">
 <link rel="canonical" href="https://localaudiobooks.vercel.app/support">
 <link rel="alternate" hreflang="en" href="https://localaudiobooks.vercel.app/support">
 <link rel="alternate" hreflang="pl" href="https://localaudiobooks.vercel.app/pl/support">
 <meta property="og:title" content="Support — Local Audio Books">
-<meta property="og:description" content="A private audiobook player for your own MP3 files, with free public-domain audiobooks from LibriVox, Wolne Lektury and Project Gutenberg in eight languages — plus any podcast or RSS feed.">
+<meta property="og:description" content="A private player for your own audiobooks, free public-domain classics from LibriVox, Wolne Lektury and Project Gutenberg in eight languages, and podcasts that stream right away.">
 <meta property="og:image" content="https://localaudiobooks.vercel.app/assets/og.png">
 <meta name="twitter:card" content="summary_large_image">
 <meta name="apple-itunes-app" content="app-id=6737989765">
@@ -20,9 +20,9 @@
 <body>
 <header class="top"><div class="wrap">
 <a class="brand" href="/"><img src="/assets/icon-64.png" alt=""><span>Local Audio Books</span></a>
-<nav><a class="hide-sm" href="/#sources">Sources</a><a class="hide-sm" href="/#feeds">Feeds</a><a href="/privacy">Privacy</a><a href="/support">Support</a><a class="lang" href="/pl" hreflang="pl">PL</a></nav>
+<nav><a class="hide-sm" href="/#sources">Sources</a><a class="hide-sm" href="/#feeds">Podcasts</a><a href="/privacy">Privacy</a><a href="/support">Support</a><a class="lang" href="/pl" hreflang="pl">PL</a></nav>
 </div></header>
-<main class="doc"><h1>Support</h1><h2>Adding a free catalogue</h2><p>Open <b>Libraries → + → Add remote source</b>, pick a catalogue (yours are listed first), then tap <b>Browse titles</b>.</p><h2>Adding a podcast or RSS feed</h2><p>Add the <b>Your feeds</b> source, open it and tap <b>+</b>. Paste a feed address or a web page that links to one (for example a LibriVox book page).</p><h2>Adding your own files</h2><p>Create a folder with one subfolder per book containing its MP3 or AAC files (optional: <code>cover.jpg</code>, <code>info.txt</code>). Then <b>+ → Add folder library</b> and pick the parent folder.</p><h2>A download failed</h2><p>Open the title and tap <b>Download</b> again — files already on your device are kept and only the missing ones are fetched.</p><h2>Contact</h2><p>Found a bug or have an idea? <a href="https://github.com/blazejzet/localaudiobooks/issues">Open an issue on GitHub</a>.</p></main>
+<main class="doc"><h1>Support</h1><h2>Turning on a free catalogue</h2><p>Open <b>Settings</b> (the gear at the top) and switch the catalogue on — it gets its own tab in the bar at the bottom. Open a title and tap <b>Listen now</b> or <b>Download</b>.</p><h2>Following a podcast</h2><p>Open the <b>Podcasts</b> tab and tap the magnifier at the top: type the show’s name and tap <b>+</b>, or paste the address of its feed or web page and choose <b>Follow this address</b>.</p><h2>Searching</h2><p>The magnifier at the top searches the tab you are on — everything from <b>Listen</b>. Results are split into what is on your device and what you can still download.</p><h2>Adding your own files</h2><p>Create a folder with one subfolder per book containing its MP3 or AAC files (optional: <code>cover.jpg</code>, <code>info.txt</code>). Then <b>Settings → Add folder</b> and pick the parent folder.</p><h2>A download failed</h2><p>Open the title and tap <b>Download</b> again — files already on your device are kept and only the missing ones are fetched.</p><h2>Contact</h2><p>Found a bug or have an idea? <a href="https://github.com/blazejzet/localaudiobooks/issues">Open an issue on GitHub</a>.</p></main>
 <footer><div class="wrap"><span>© 2026 Local Audio Books · Made in Poland. LibriVox recordings are in the public domain in the USA; Wolne Lektury titles are CC BY-SA.</span><span><a href="/privacy">Privacy</a> · <a href="/support">Support</a></span></div></footer>
 </body>
 </html>
